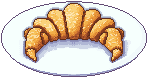
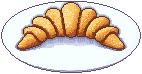
可颂两头：沿切线往外伸的短圆尖，不再往里勾成蟹钳
她：「可颂依旧不行，现在看起来像是螃蟹的蟹钳。」

上一版两头的尖是**顺着弧继续弯**两段、收到 0.035 那么细——两头朝里勾，就是一对钳子。
中间试过把整条弧拉直（半径 3.2、每节 9°），成了一排直的，还挪到盘子后面、两头伸出盘外，退掉。

现在：中间七节还是她认可的那版弧度（19°/节、台阶状）；两头是一个**短而粗**的圆头锥，
从第 3 节里面出发、以切线为主稍微掰直、往外往下伸 0.55，尖头半径留 0.13。
画布从 0.9 改成 0.8 × 150、units 4.4、中心降到 0.6，盘子上沿不再被切。

diff --git a/scripts/px_tabletop.py b/scripts/px_tabletop.py
@@ -509,7 +509,7 @@ def cookies(s, R, T):
         s.decal(lambda p: (speckle(p, 6, 0.18, seed=20), chip), "cookie%d" % i)
 
 
-@item("croissant", "可颂", units=4.2, ty=0.8, h=0.9)
+@item("croissant", "可颂", units=4.4, ty=0.6, h=0.8)
 def croissant(s, R, T):
     # 可颂是**一节一节叠起来的**：中间那节最大最高，往两头一节比一节小、一节比一节低，
     # 边缘一级一级往下走（她说的「阶梯状」），节和节之间一道深线。
@@ -528,7 +528,7 @@ def croissant(s, R, T):
               M("d1", "#E5922F", colors=ramp_c[:-1], gloss=0.3, grain=0.65, streak=0.45, outline="#5E2C1C")]
     shine_m = M("shine", "#FBDD92", colors=ramp_c[5:], grain=0.5)
     RAD = 1.25
-    # 弧心在前面：中间那节在后、两头的尖朝观察者弯过来，斜俯视下看得出是个「C」
+    # 弧心在前面：中间那节在后、两头朝观察者弯过来，斜俯视下看得出是个「C」
     C = T * 1.05
     levels = [1.0, 0.82, 0.64, 0.47, 0.32]
     # ⚠ 最外面那两节**不是椭圆**，是从倒数第二节伸出去、越来越细的尖角（见循环后面）。
@@ -547,17 +547,19 @@ def croissant(s, R, T):
         s.add(along(ellipsoid(a, c, b), tang).at(d[0], 0.2 + c * 0.85, d[2]), doughs[abs(j) % 2], g)
         s.decal((lambda p: ((p[..., 1] > 0.35 * c) & (np.abs(p[..., 2]) < 0.45 * b) & (np.abs(p[..., 0]) < 0.4 * a),
                             shine_m)), g)
-    # 两头的尖角：从第 3 节里面出发，沿弧往外、往下弯，半径收到很细
+    # 两头的尖。
+    # ⚠ **沿第 3 节的切线往外伸，不再顺着弧继续弯**。顺着弧弯两段、尖收到很细，
+    # 两头就朝里勾成一对钩——她说「像螃蟹的蟹钳」。
+    # 现在是一个**短而粗**的圆头锥：从第 3 节里面出来，往外、往下一点，尖头留圆（半径 0.13），趴在盘子上。
     for sgn in (-1, 1):
         a0 = math.radians(sgn * 3 * 19)
-        a1 = math.radians(sgn * 4.6 * 19)
-        a2 = math.radians(sgn * 5.6 * 19)
-        base = C + R * math.sin(a0) * RAD - T * math.cos(a0) * RAD + np.array([0, 0.36, 0])
-        mid = C + R * math.sin(a1) * RAD * 0.98 - T * math.cos(a1) * RAD * 0.98 + np.array([0, 0.28, 0])
-        tip = C + R * math.sin(a2) * RAD * 0.9 - T * math.cos(a2) * RAD * 0.9 + np.array([0, 0.2, 0])
+        base = C + R * math.sin(a0) * RAD - T * math.cos(a0) * RAD + np.array([0, 0.3, 0])
+        tang = R * math.cos(a0) + T * math.sin(a0)
+        out = tang * sgn * 0.75 + R * sgn * 0.25       # 切线为主，稍微掰直一点
+        out = out / np.linalg.norm(out)
+        tip = base + out * 0.55 + np.array([0, -0.1, 0])
         g = "horn%d" % (sgn + 1)
-        s.add(round_cone(base, mid, 0.3, 0.16), doughs[1], g)
-        s.add(round_cone(mid, tip, 0.16, 0.035), doughs[1], g + "t")
+        s.add(round_cone(base, tip, 0.27, 0.13), doughs[1], g)
 
 
 @item("fruitbowl", "果盘", units=4.6, ty=0.8, h=0.95)
